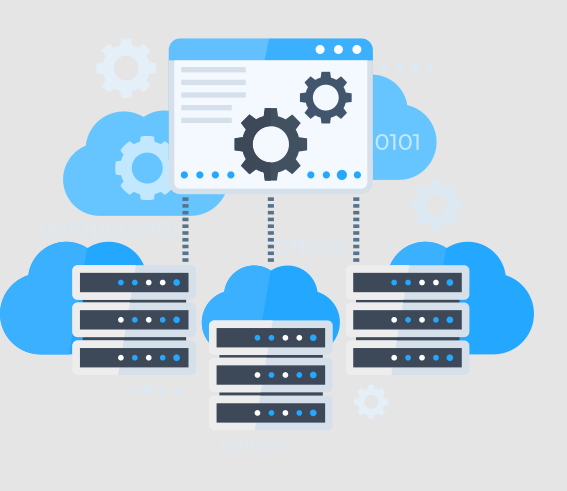
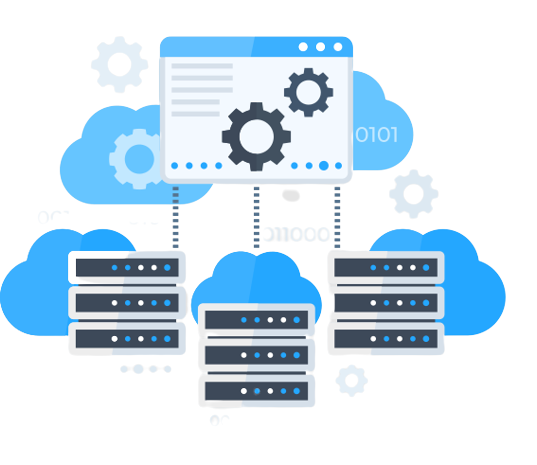
Hero Section One Created

diff --git a/style.css b/style.css
@@ -8,6 +8,26 @@
     overflow-x: hidden;
 }
 
+
+/* =========================================== */
+/* ============ Common Components ============== */
+/* =========================================== */
+
+
+.btnc{
+    all: unset;
+    background: linear-gradient(163deg, rgba(68,137,238,1) 37%, rgba(47,49,167,1) 100%);
+    color: #fff;
+    font-weight: 700;
+    padding: 1rem 3rem;
+    border-radius: 11px;
+    font-size: 1.3rem;
+    cursor: pointer;
+}
+
+
+
+
 /* =========================================== */
 /* ===================== Navber ====================== */
 /* =========================================== */
@@ -54,8 +74,41 @@ all: unset;
     font-weight: 700;
     -webkit-background-clip: text;
     -webkit-text-fill-color: transparent; 
-
-
 }
 
 
+/* =========================================== */
+/* ===================== Hero One ====================== */
+/* =========================================== */
+
+
+.btn_choose_pkg {
+    margin-top: 4rem;
+}
+
+.hero_one {
+    display: flex;
+    align-items: center;
+    justify-content: space-between;
+    padding: 0rem 6rem;
+    font-family: 'Open Sans', sans-serif;
+    flex-wrap: wrap;
+    height: 80vh;
+}
+
+.heroa_one_lift > h1{
+    font-size: 5rem;
+    width: 45vw;
+    height: 35vh;
+    line-height: 6rem;
+}
+
+.heroa_one_lift > p {
+    width: 40rem;
+    font-size: 1.3rem;
+    color: #555;
+}
+
+.hero_one > img {
+    width: 45rem;
+}

diff --git a/index.html b/index.html
@@ -1,5 +1,6 @@
 <!DOCTYPE html>
 <html lang="en">
+
 <head>
     <meta charset="UTF-8">
     <meta http-equiv="X-UA-Compatible" content="IE=edge">
@@ -7,6 +8,7 @@
     <title> Hosting Landing Page </title>
     <link rel="stylesheet" href="style.css">
 </head>
+
 <body>
 
     <!-- Navber Starts hare -->
@@ -21,9 +23,31 @@
             <li class="nav_item"><a href="#">About us</a></li>
             <li class="nav_item register_btn"><a href="#" id="register_ancher">Register now</a></li>
         </ul>
-
-
     </nav>
-    
+
+
+    <!-- Section One -->
+    <section class="hero_one">
+
+        <div class="heroa_one_lift">
+            <h1> Greate websites start with ultimate hosting </h1>
+            <p>
+                We provide the best offer of Ultimate web hosting. the most complite
+                features , afodable price, and 24/7 technical support at your
+                disposal.
+            </p>
+            <button class="btnc btn_choose_pkg "> Choose Package </button>
+        </div>
+
+        <!-- <div class="heroa_one_right"> -->
+            <img src="./images/database.png" class="" alt="DataBase Image">
+        <!-- </div> -->
+    </section>
+
+
+
+
+
 </body>
+
 </html>
